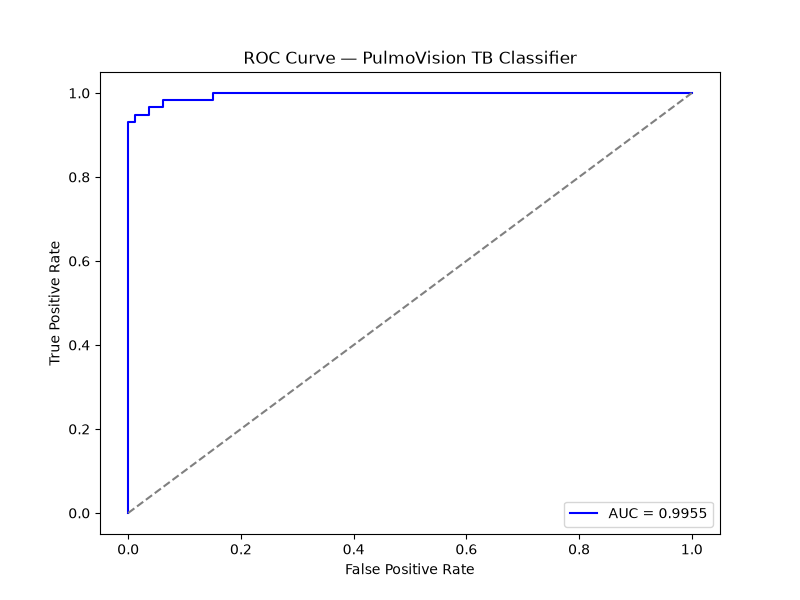
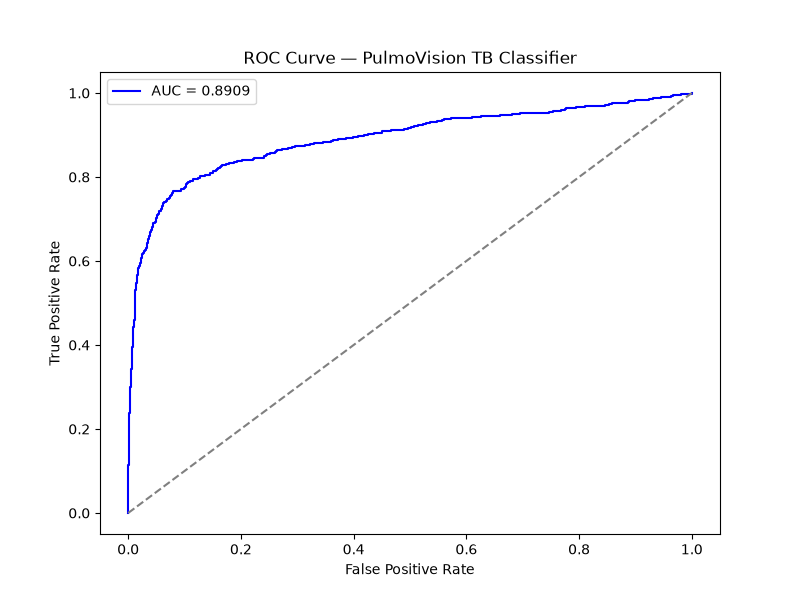
evaluate_reports

diff --git a/evaluation/evaluate_reports.py b/evaluation/evaluate_reports.py
@@ -3,23 +3,56 @@ sys.path.append('../backend')
 
 import os
 import json
+import pandas as pd
+import torch
+from PIL import Image
+from torchvision import transforms
+from pathlib import Path
 from dotenv import load_dotenv
-load_dotenv('../backend/.env')
-
+from groq import Groq
 from nltk.translate.bleu_score import sentence_bleu, SmoothingFunction
 from rouge_score import rouge_scorer
 import nltk
 nltk.download('punkt')
 
-# Pairs of (generated, reference) reports
-# Fill these with your actual generated reports vs radiologist references
-report_pairs = [
-    {
-        "generated": "FINDINGS: The chest X-ray demonstrates increased opacity in the right upper lobe. IMPRESSION: Findings are consistent with active pulmonary tuberculosis.",
-        "reference": "FINDINGS: Right upper lobe consolidation with cavitation noted. IMPRESSION: Active TB likely."
-    },
-    # Add more pairs here — ideally 20-30
-]
+load_dotenv('../backend/.env')
+
+# Load OpenI reports
+df = pd.read_csv("indiana_reports.csv")
+df = df.dropna(subset=["findings", "impression"])
+df["reference"] = "FINDINGS: " + df["findings"] + " IMPRESSION: " + df["impression"]
+
+# Load your model + Groq
+from dependencies import ModelContainer
+models = ModelContainer()
+models.load_tb_model()
+device = "cuda" if torch.cuda.is_available() else "cpu"
+
+groq_client = Groq(api_key=os.getenv("GROQ_API_KEY"))
+
+preprocess = transforms.Compose([
+    transforms.Resize((518, 518)),
+    transforms.ToTensor(),
+    transforms.Normalize([0.485, 0.456, 0.406], [0.229, 0.224, 0.225]),
+])
+
+def generate_groq_report(prediction, confidence):
+    response = groq_client.chat.completions.create(
+        model="llama-3.1-8b-instant",
+        messages=[
+            {
+                "role": "system",
+                "content": "You are a radiologist. Output only FINDINGS and IMPRESSION in plain text. No markdown."
+            },
+            {
+                "role": "user",
+                "content": f"TB classifier result: {prediction} ({confidence:.1f}% confidence). Write FINDINGS and IMPRESSION only."
+            }
+        ],
+        max_tokens=250,
+        temperature=0.1,
+    )
+    return response.choices[0].message.content.strip()
 
 scorer = rouge_scorer.RougeScorer(['rouge1', 'rouge2', 'rougeL'], use_stemmer=True)
 smoother = SmoothingFunction().method1
@@ -29,19 +62,52 @@ rouge1_scores = []
 rouge2_scores = []
 rougeL_scores = []
 
-for pair in report_pairs:
-    gen = pair["generated"]
-    ref = pair["reference"]
+# Use first N images that have matching X-rays
+IMAGE_DIR = "test_images/"  # put OpenI images here
+N = 30  # number of pairs to evaluate
 
-    bleu = sentence_bleu([ref.split()], gen.split(), smoothing_function=smoother)
-    rouge = scorer.score(ref, gen)
+count = 0
+for _, row in df.iterrows():
+    if count >= N:
+        break
+
+    # Find matching image
+    img_name = str(row.get("filename", "")).replace(".png", "").replace(".jpg", "")
+    img_path = None
+    for ext in [".png", ".jpg"]:
+        p = Path(IMAGE_DIR) / (img_name + ext)
+        if p.exists():
+            img_path = p
+            break
+
+    if img_path is None:
+        continue
+
+    # Run classifier
+    image = Image.open(img_path).convert("RGB")
+    tensor = preprocess(image).unsqueeze(0).to(device)
+    results = models.tb_classifier.run_pipeline(tensor)
+    prob = float(results["probs"][1])
+    prediction = "TB Positive" if prob >= 0.5 else "Normal"
+    confidence = prob * 100
+
+    # Generate report via Groq
+    generated = generate_groq_report(prediction, confidence)
+    reference = row["reference"]
+
+    # Score
+    bleu = sentence_bleu([reference.split()], generated.split(), smoothing_function=smoother)
+    rouge = scorer.score(reference, generated)
 
     bleu_scores.append(bleu)
     rouge1_scores.append(rouge['rouge1'].fmeasure)
     rouge2_scores.append(rouge['rouge2'].fmeasure)
     rougeL_scores.append(rouge['rougeL'].fmeasure)
 
-print("\n=== Report Quality Evaluation ===")
+    print(f"[{count+1}/{N}] BLEU: {bleu:.3f} | ROUGE-L: {rouge['rougeL'].fmeasure:.3f}")
+    count += 1
+
+print("\n=== Report Quality Evaluation (OpenI) ===")
 print(f"BLEU:    {sum(bleu_scores)/len(bleu_scores):.4f}")
 print(f"ROUGE-1: {sum(rouge1_scores)/len(rouge1_scores):.4f}")
 print(f"ROUGE-2: {sum(rouge2_scores)/len(rouge2_scores):.4f}")

diff --git a/evaluation/evaluate_classifier.py b/evaluation/evaluate_classifier.py
@@ -1,22 +1,21 @@
 import sys
 from pathlib import Path
 
-ROOT = Path(__file__).resolve().parents[1]
-sys.path.insert(0, str(ROOT))
+sys.path.append(str(Path(__file__).resolve().parent.parent))
 
 import torch
+import numpy as np
 from pathlib import Path
 from PIL import Image
 from torchvision import transforms
 from sklearn.metrics import roc_auc_score, roc_curve, classification_report
 import matplotlib.pyplot as plt
-from backend.dependencies import ModelContainer
 from tqdm import tqdm
+from backend.dependencies import ModelContainer
 
-# Initialize the PulmoVision model container
+# Load model
 models = ModelContainer()
-models.load_tb_model() # Loads the frozen Rad-DINO backbone
-
+models.load_tb_model()
 device = "cuda" if torch.cuda.is_available() else "cpu"
 
 preprocess = transforms.Compose([
@@ -29,36 +28,31 @@ y_true = []
 y_scores = []
 y_pred = []
 
-dataset_root = Path("TB_Chest_Radiography_Database")
+dataset_root = Path("test_images") / "TB_Chest_Radiography_Database"
 
-class_mapping = {
-    "Normal": 0,
-    "Tuberculosis": 1
-}
 
-for class_name, label in class_mapping.items():
+folders = [
+    (1, dataset_root / "Tuberculosis"),
+    (0, dataset_root / "Normal"),
+]
 
-    class_dir = dataset_root / class_name
-    print(f"Processing {class_name}...")
 
-    for img_path in tqdm(class_dir.glob("*.png"), desc=class_name):
+for label, folder in folders:
+    image_files = list(folder.glob("*.png"))
 
+    print(folder)
+    print("Found", len(image_files), "images")
+
+    for img_path in tqdm(image_files, desc=f"Processing {folder.name}", unit="image"):
         image = Image.open(img_path).convert("RGB")
         tensor = preprocess(image).unsqueeze(0).to(device)
 
-        with torch.no_grad():
-            results = models.tb_classifier.run_pipeline(tensor)
+        results = models.tb_classifier.run_pipeline(tensor)
 
         prob = float(results["probs"][1])
-
         y_scores.append(prob)
         y_true.append(label)
         y_pred.append(1 if prob >= 0.5 else 0)
-
-# Failsafe in case the directory path is incorrect
-if not y_true:
-    print("No images processed. Please verify your dataset_dir path.")
-    sys.exit()
 
 auc = roc_auc_score(y_true, y_scores)
 print(f"\nAUC-ROC: {auc:.4f}")
